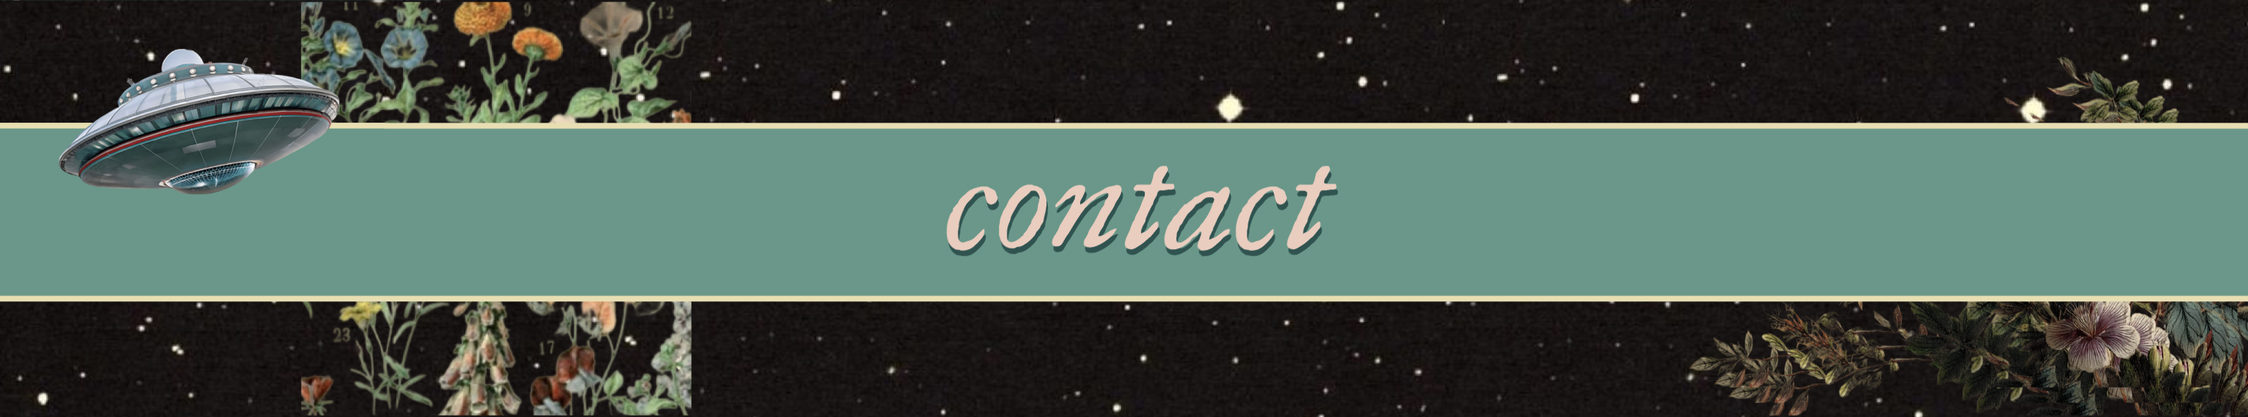
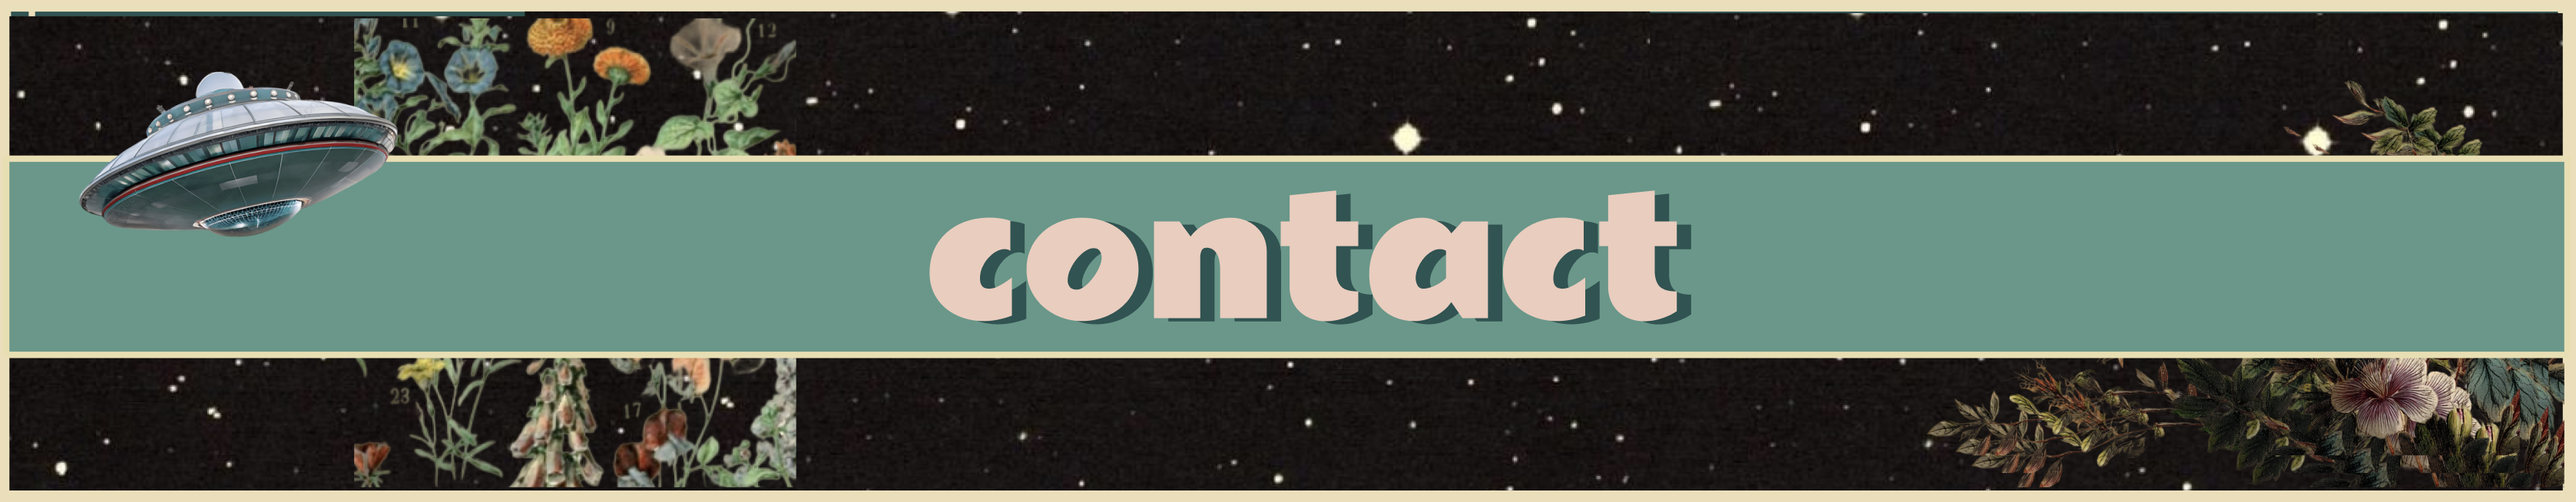
Implement responsive hero content and fix hydration issues
- Add responsive hero content with three breakpoints:
  - Large screens (≥1178px): Video (onset-4.mp4)
  - Medium screens (750px-1177px): hero-mobile.png
  - Small screens (<750px): onset-smallest.png
- Fix hydration errors with proper state management
- Add loading placeholder to prevent server/client mismatches
- Make all text bold across entire website
- Update festival description text with line breaks
- Fix syntax errors and build issues
- Improve mobile experience with optimized images

diff --git a/src/app/page.tsx b/src/app/page.tsx
@@ -1,13 +1,25 @@
 'use client';
 
-import { useEffect, useRef } from 'react';
+import { useEffect, useRef, useState } from 'react';
 import { useRouter } from 'next/navigation';
+import Image from 'next/image';
 
 export default function About() {
   const router = useRouter();
   const videoRef = useRef<HTMLVideoElement>(null);
+  const [isMounted, setIsMounted] = useState(false);
+  const [isLargeScreen, setIsLargeScreen] = useState(false);
+  const [isMediumScreen, setIsMediumScreen] = useState(false);
 
   useEffect(() => {
+    setIsMounted(true);
+    
+    const checkScreenSize = () => {
+      const width = window.innerWidth;
+      setIsLargeScreen(width >= 1178);
+      setIsMediumScreen(width >= 750 && width < 1178);
+    };
+    
     const updateVideoSource = () => {
       if (videoRef.current) {
         const newSrc = '/onset-4.mp4';
@@ -19,14 +31,15 @@ export default function About() {
         }
       }
     };
-
-    // Set initial video source
+    
+    checkScreenSize();
     updateVideoSource();
-
-    // Update video source on window resize
+    
+    window.addEventListener('resize', checkScreenSize);
     window.addEventListener('resize', updateVideoSource);
-
+    
     return () => {
+      window.removeEventListener('resize', checkScreenSize);
       window.removeEventListener('resize', updateVideoSource);
     };
   }, []);
@@ -37,15 +50,35 @@ export default function About() {
       <div>
         {/* Header video container */}
         <div className="w-full h-[calc(100vh-4rem)] flex items-center justify-center overflow-hidden">
-          <video 
-            ref={videoRef}
-            id="hero-video"
-            autoPlay 
-            muted 
-            playsInline
-            className="h-[60vh] w-auto md:h-full md:w-full object-cover cursor-pointer"
-            onClick={() => router.push('/about')}
-          />
+          {isMounted && isLargeScreen ? (
+            <video 
+              ref={videoRef}
+              id="hero-video"
+              autoPlay 
+              muted 
+              playsInline
+              className="h-[60vh] w-auto md:h-full md:w-full object-cover cursor-pointer"
+              onClick={() => router.push('/about')}
+            />
+          ) : isMounted && isMediumScreen ? (
+            <Image
+              src="/hero-mobile.png"
+              alt="Onset Festival Hero"
+              fill
+              className="object-cover cursor-pointer"
+              onClick={() => router.push('/about')}
+            />
+          ) : isMounted ? (
+            <Image
+              src="/onset-smallest.png"
+              alt="Onset Festival Hero"
+              fill
+              className="object-cover cursor-pointer"
+              onClick={() => router.push('/about')}
+            />
+          ) : (
+            <div className="h-[60vh] w-auto md:h-full md:w-full bg-gray-200 animate-pulse" />
+          )}
         </div>
       </div>
 
@@ -53,16 +86,16 @@ export default function About() {
       <section className="py-16 px-4 bg-[#EDDEB7] relative z-10">
         <div className="max-w-6xl mx-auto">
           <div className="space-y-6 text-justify">
-            <p className="text-[20px] leading-relaxed font-rammetto text-[#245451] font-sans">
+            <p className="text-[20px] leading-relaxed font-rammetto text-[#245451] font-sans font-bold">
               This is the Onset of something new.<br /><br />
-              Join us for a weekend escape in the Berkshires at Camp Timber Trails on September 18–20, 2026. At Onset Festival, we&apos;re fostering connection and community through music, art, nature, and performance. Our festival is built from the ground up, with the creators being musicians and performers themselves. We aim to provide experiences and activities that bring joy and inspire creativity.
+              Join us for a weekend escape in the Berkshires at Camp Timber Trails on September 18–20, 2026.
             </p>
             
-            <p className="text-[20px] leading-relaxed font-rammetto text-[#245451] font-sans">
-              Spread across more than 400 acres of forest, the venue features a private lake with its own island, beach, and boathouse stocked with kayaks and canoes, a lakeside amphitheatre, beautiful foliage, and stunning views. Set up a tent, or book a cabin, and immerse yourself in a unique experience just a few hours from NYC and Boston.
+            <p className="text-[20px] leading-relaxed font-rammetto text-[#245451] font-sans font-bold">
+              Spread across more than 400 acres of forest, the venue features a private lake with its own island, beach, boathouse stocked with kayaks and canoes, lakeside amphitheatre, cabins, beautiful foliage, and stunning views.
             </p>
 
-            <p className="text-[20px] leading-relaxed font-rammetto text-[#245451] font-sans">
+            <p className="text-[20px] leading-relaxed font-rammetto text-[#245451] font-sans font-bold">
               Discover new musicians, catch aerial performances and fire dancers, eat s&apos;mores and freshly-prepared meals, do yoga, meditate, and meet new friends. It&apos;s all here.<br /><br />
               Stay tuned for updates on the lineup and ticket sales.
             </p>

diff --git a/src/app/about/page.tsx b/src/app/about/page.tsx
@@ -13,35 +13,40 @@ export default function About() {
       <section className="py-16 px-4 bg-[#EDDEB7]">
         <div className="max-w-6xl mx-auto">
           <div className="space-y-6 text-justify">
-            <p className="text-[20px] leading-relaxed font-rammetto text-[#245451] font-sans">
+            <p className="text-[20px] leading-relaxed font-rammetto text-[#245451] font-sans font-bold">
               This is the Onset of something new.<br /><br />
-              Join us for a weekend escape in the Berkshires at Camp Timber Trails on September 18–20, 2026. At Onset Festival, we&apos;re fostering connection and community through music, art, nature, and performance. Our festival is built from the ground up, with the creators being musicians and performers themselves. We aim to provide experiences and activities that bring joy and inspire creativity.
-            </p>
-            
-            <p className="text-[20px] leading-relaxed font-rammetto text-[#245451] font-sans">
-              Spread across more than 400 acres of forest, the venue features a private lake with its own island, beach, and boathouse stocked with kayaks and canoes, a lakeside amphitheatre, beautiful foliage, and stunning views. Set up a tent, or book a cabin, and immerse yourself in a unique experience just a few hours from NYC and Boston.
-            </p>
+              Join us for a weekend escape in the Berkshires at Camp Timber Trails on September 18–20, 2026.<br /><br />
+              At Onset Festival, we&apos;re fostering connection and community through music, art, nature, and performance. Our festival is built from the ground up, with the creators being musicians and performers themselves. We aim to provide experiences and activities that bring joy and inspire creativity.
+          </p></div><br></br>
 
-            <p className="text-[20px] leading-relaxed font-rammetto text-[#245451] font-sans">
+          <div className="flex justify-center">
+          <Image src="/activities.png" alt="Activities at Flights & Sounds" width={600} height={400} className="w-1/2 h-auto" />
+        </div><br></br>
+
+          {/* Activities Image */}
+          <section className="w-full">
+          </section>
+            <div>
+            <p className="text-[20px] leading-relaxed font-rammetto text-[#245451] font-sans font-bold">
+              Spread across more than 400 acres of forest, the venue features a private lake with its own island, beach, and boathouse stocked with kayaks and canoes, a lakeside amphitheatre, beautiful foliage, and stunning views. Set up a tent, or book a cabin, and immerse yourself in a unique experience just a few hours from NYC and Boston.
+            </p><br></br>
+
+            <p className="text-[20px] leading-relaxed font-rammetto text-[#245451] font-sans font-bold">
               Discover new musicians, catch aerial performances and fire dancers, eat s&apos;mores and freshly-prepared meals, do yoga, meditate, and meet new friends. It&apos;s all here.<br /><br />
               Stay tuned for updates on the lineup and ticket sales.
             </p>
           </div>
         </div>
         <br></br><br></br>
-        <div className="flex justify-center">
-          <Image src="/activities.png" alt="Activities at Flights & Sounds" width={600} height={400} className="w-1/2 h-auto" />
-        </div>
       </section>
 
-      {/* Activities Image */}
-      <section className="w-full">
-      </section>
 
-      {/* Border Image */}
-      <section className="w-full">
-        <Image src="/border.png" alt="Border decoration" width={1200} height={400} className="w-full h-auto" />
-      </section>
+          {/* Border Image */}
+          <section className="w-full">
+            <Image src="/border.png" alt="Border decoration" width={1200} height={400} className="w-full h-auto" />
+          </section>
+
+
     </div>
   );
 } 

diff --git a/src/app/contact/page.tsx b/src/app/contact/page.tsx
@@ -66,21 +66,21 @@ export default function Contact() {
               <div className="space-y-6">
                 <div>
                   <h3 className="text-xl font-medium font-gabarito text-[#432C2C] mb-2">General Inquiries</h3>
-                  <p className="text-[#245451] font-gabarito font-normal text-[16px]">
+                  <p className="text-[#245451] font-gabarito font-bold text-[16px]">
                     Contact us with any questions about the festival, ticketing, or general information.
                   </p>
                 </div>
 
                 <div>
                   <h3 className="text-xl font-medium font-gabarito text-[#432C2C] mb-2">Artist & Performer Applications</h3>
-                  <p className="text-[#245451] font-gabarito font-normal text-[16px]">
+                  <p className="text-[#245451] font-gabarito font-bold text-[16px]">
                     Interested in performing at Flights & Sounds? We&apos;d love to hear from you.
                   </p>
                 </div>
 
                 <div>
                   <h3 className="text-xl font-medium font-gabarito text-[#432C2C] mb-2">Volunteer Opportunities</h3>
-                  <p className="text-[#245451] font-gabarito font-normal text-[16px]">
+                  <p className="text-[#245451] font-gabarito font-bold text-[16px]">
                     Want to be part of making this festival happen? Join our volunteer team.
                   </p>
                 </div>
@@ -93,7 +93,7 @@ export default function Contact() {
               
               <form onSubmit={handleSubmit} className="space-y-6">
                 <div>
-                  <label htmlFor="name" className="block text-sm font-normal font-gabarito text-[#432C2C] mb-2">
+                  <label htmlFor="name" className="block text-sm font-bold font-gabarito text-[#432C2C] mb-2">
                     Name
                   </label>
                   <input
@@ -109,7 +109,7 @@ export default function Contact() {
                 </div>
 
                 <div>
-                  <label htmlFor="email" className="block text-sm font-normal font-gabarito text-[#432C2C] mb-2">
+                  <label htmlFor="email" className="block text-sm font-bold font-gabarito text-[#432C2C] mb-2">
                     Email
                   </label>
                   <input
@@ -125,7 +125,7 @@ export default function Contact() {
                 </div>
 
                 <div>
-                  <label htmlFor="subject" className="block text-sm font-normal font-gabarito text-[#432C2C] mb-2">
+                  <label htmlFor="subject" className="block text-sm font-bold font-gabarito text-[#432C2C] mb-2">
                     Subject
                   </label>
                   <select
@@ -146,7 +146,7 @@ export default function Contact() {
                 </div>
 
                 <div>
-                  <label htmlFor="message" className="block text-sm font-normal font-gabarito text-[#432C2C] mb-2">
+                  <label htmlFor="message" className="block text-sm font-bold font-gabarito text-[#432C2C] mb-2">
                     Message
                   </label>
                   <textarea

diff --git a/src/app/team/page.tsx b/src/app/team/page.tsx
@@ -13,7 +13,7 @@ export default function Team() {
       <section className="pt-16 pb-16 px-4 bg-[#ECDFB8]">
         <div className="max-w-6xl mx-auto">
           <div className="text-center mb-12">
-            <p className="text-[20px] text-[#245451] font-gabarito max-w-2xl mx-auto">
+            <p className="text-[20px] text-[#245451] font-gabarito font-bold max-w-2xl mx-auto">
               Meet the passionate team behind Flights & Sounds Festival.
             </p>
           </div>
@@ -33,7 +33,7 @@ export default function Team() {
               </div>
               <div className="text-left space-y-3">
                 <h3 className="text-2xl font-semibold font-gabarito text-[#245451]">Erica Leh</h3>
-                <p className="text-[16px] text-[#245451] font-gabarito leading-relaxed">
+                <p className="text-[16px] text-[#245451] font-gabarito font-bold leading-relaxed">
                   Erica is an event organizer, aerialist, musician, and DJ based in Brooklyn, NY. She has helped organize and perform in events around NYC, both as an aerialist and DJ. She has previously run Yale&apos;s Spring Festival, featuring artists such as Diplo, Jessie J, Passion Pit, and T-Pain, and has assisted with and performed in the Keep the Dream Alive charity stream, which has raised upwards of $20K for Detroit youth. She has worked in the music industry for the past 8 years, both at Groover and Spotify.
                 </p>
               </div>
@@ -52,7 +52,7 @@ export default function Team() {
               </div>
               <div className="text-left space-y-3">
                 <h3 className="text-2xl font-semibold font-gabarito text-[#245451]">Raphael Estrach</h3>
-                <p className="text-[16px] text-[#245451] font-gabarito leading-relaxed">
+                <p className="text-[16px] text-[#245451] font-gabarito font-bold leading-relaxed">
                   Raff is a music producer, DJ, VJ, and engineer from Bordeaux, France, focusing on electronic funk, soul, hip hop, and bass music. He has DJ&apos;d at venues and parties across the globe, and performs in and helps run the Keep the Dream Alive charity stream. He also helps run a music production community, where he teaches and collaborates with other artists learning music production. He has worked in the music industry for 11 years, as part of Niland and Spotify.
                 </p>
               </div>

diff --git a/src/app/performers/page.tsx b/src/app/performers/page.tsx
@@ -6,14 +6,14 @@ export default function Artists() {
       {/* Header Image */}
       <section className="relative h-auto overflow-hidden">
         {/* Header image */}
-        <Image src="/performers-2.png" alt="About Flights & Sounds" width={1200} height={400} className="relative w-full h-auto object-contain object-top bg-[#EDDEB7]" />
+        <Image src="/performers.png" alt="About Flights & Sounds" width={1200} height={400} className="relative w-full h-auto object-contain object-top bg-[#EDDEB7]" />
       </section>
 
       {/* Content Section */}
       <section className="pt-16 pb-16 px-4 bg-[#ECDFB8]">
         <div className="max-w-6xl mx-auto">
           <div className="text-center mb-12">
-            <p className="text-[20px] text-[#245451] font-gabarito max-w-4xl mx-auto leading-relaxed">
+            <p className="text-[20px] text-[#245451] font-gabarito font-bold max-w-4xl mx-auto leading-relaxed">
               Our festival brings together an eclectic mix of talented musicians from various genres and backgrounds, as well as talented aerial and fire performers. Each artist has been carefully selected to create a unique and engaging experience for our attendees.
             </p>
           </div>
@@ -77,7 +77,7 @@ export default function Artists() {
           </div>
           
           <div className="text-center mt-12">
-            <p className="text-[20px] text-[#245451] font-gabarito">
+            <p className="text-[20px] text-[#245451] font-gabarito font-bold">
               The full list of artists and performers will be announced in 2026. Stay tuned for updates!
             </p>
           </div>

diff --git a/src/components/Navbar.tsx b/src/components/Navbar.tsx
@@ -26,25 +26,25 @@ export default function Navbar() {
           <div className="hidden md:flex space-x-8">
             <Link 
               href="/about" 
-              className="text-[20px] text-[#EDDEB7] hover:text-[#934D2F] transition-colors duration-200 font-dwpica"
+              className="text-[20px] text-[#EDDEB7] hover:text-[#934D2F] transition-colors duration-200 font-dwpica font-bold"
             >
               About
             </Link>
             <Link 
               href="/performers" 
-              className="text-[20px] text-[#EDDEB7] hover:text-[#934D2F] transition-colors duration-200 font-dwpica"
+              className="text-[20px] text-[#EDDEB7] hover:text-[#934D2F] transition-colors duration-200 font-dwpica font-bold"
             >
               Performers
             </Link>
             <Link 
               href="/team" 
-              className="text-[20px] text-[#EDDEB7] hover:text-[#934D2F] transition-colors duration-200 font-dwpica"
+              className="text-[20px] text-[#EDDEB7] hover:text-[#934D2F] transition-colors duration-200 font-dwpica font-bold"
             >
               Our Team
             </Link>
             <Link 
               href="/contact" 
-              className="text-[20px] text-[#EDDEB7] hover:text-[#934D2F] transition-colors duration-200 font-dwpica"
+              className="text-[20px] text-[#EDDEB7] hover:text-[#934D2F] transition-colors duration-200 font-dwpica font-bold"
             >
               Contact Us
             </Link>

diff --git a/src/components/Footer.tsx b/src/components/Footer.tsx
@@ -8,7 +8,7 @@ export default function Footer() {
           {/* Festival Info */}
           <div>
             <h3 className="text-[20px] font-gabarito font-semibold mb-4">Flights & Sounds</h3>
-            <p className="text-[16px] text-[#D9C178] font-gabarito font-normal">
+            <p className="text-[16px] text-[#D9C178] font-gabarito font-bold">
               Fostering connection and community through music, art, nature, and performance.
             </p>
           </div>
@@ -58,7 +58,7 @@ export default function Footer() {
         </div>
 
         <div className="border-t border-[#245451] mt-8 pt-8 text-center">
-          <p className="text-[20px] text-[#93AD67] font-gabarito">
+          <p className="text-[20px] text-[#93AD67] font-gabarito font-bold">
             © 2025 Flights & Sounds Festival. All rights reserved.
           </p>
         </div>

diff --git a/tailwind.config.ts b/tailwind.config.ts
@@ -10,7 +10,7 @@ const config: Config = {
     extend: {
       fontFamily: {
         gabarito: ['var(--font-gabarito)'],
-        rammetto: ['var(--font-rammetto)', 'cursive'],
+        rammetto: ['var(--font-rammetto)', 'system-ui', 'sans-serif'],
       },
     },
   },

diff --git a/src/app/layout.tsx b/src/app/layout.tsx
@@ -8,6 +8,7 @@ const rammettoOne = Rammetto_One({
   weight: '400',
   subsets: ['latin'],
   variable: '--font-rammetto',
+  display: 'swap',
 });
 
 export const metadata: Metadata = {
